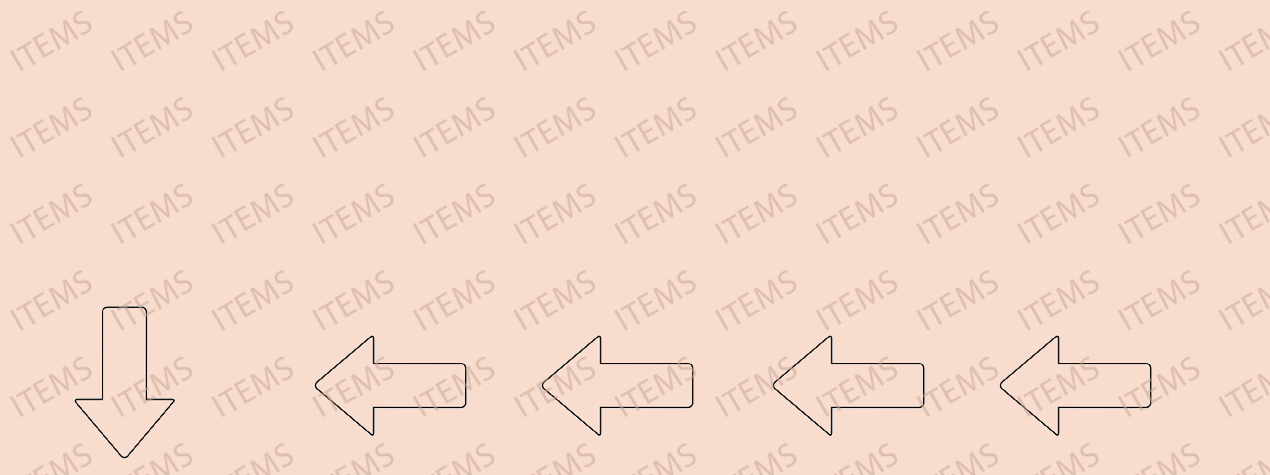
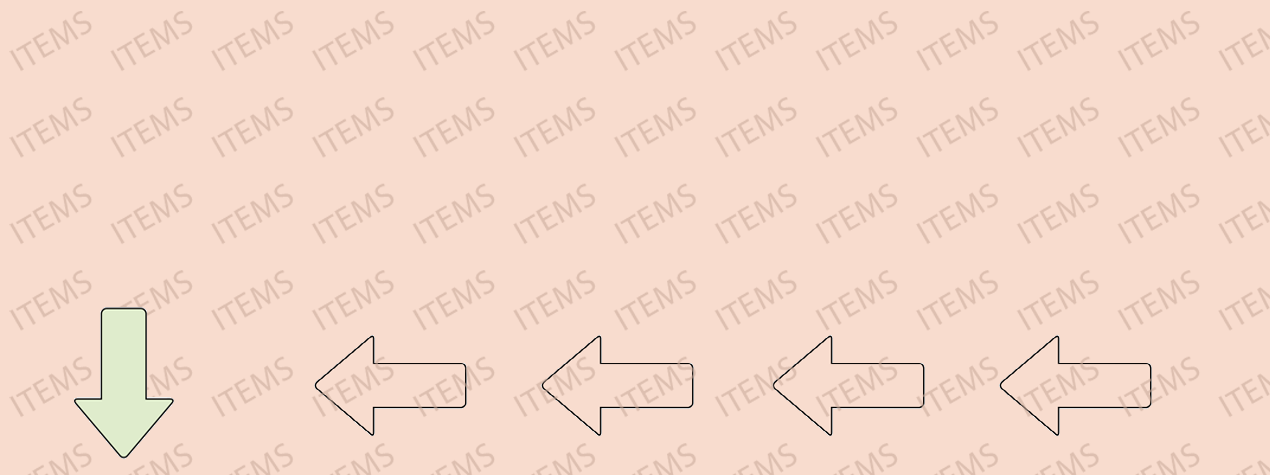
Coloured Arrows + Auction arrow

Changed region(s): [[0.0614, 0.6189, 0.1535, 0.9726]]

diff --git a/src/views/Collectors.vue b/src/views/Collectors.vue
@@ -2508,6 +2508,7 @@ theColor:onclick {
   border-width: 0.5px;
   box-shadow: 0 5px 6px rgba(0, 0, 0, 0.466), 0 1px 4px rgba(0, 0, 0, 0.24);
 }
+
 .work {
   text-align: center;
   border-radius: 2vw;
@@ -2539,7 +2540,7 @@ theColor:onclick {
 }
 .auction {
   border-radius: 2vw;
-  background-image: url("/images/Auction_Background.png");
+  background-image: url("/images/Auction_Background_arrow.png");
   background-size: contain;
   grid-column: 3;
   grid-row: 2 / span 2;
